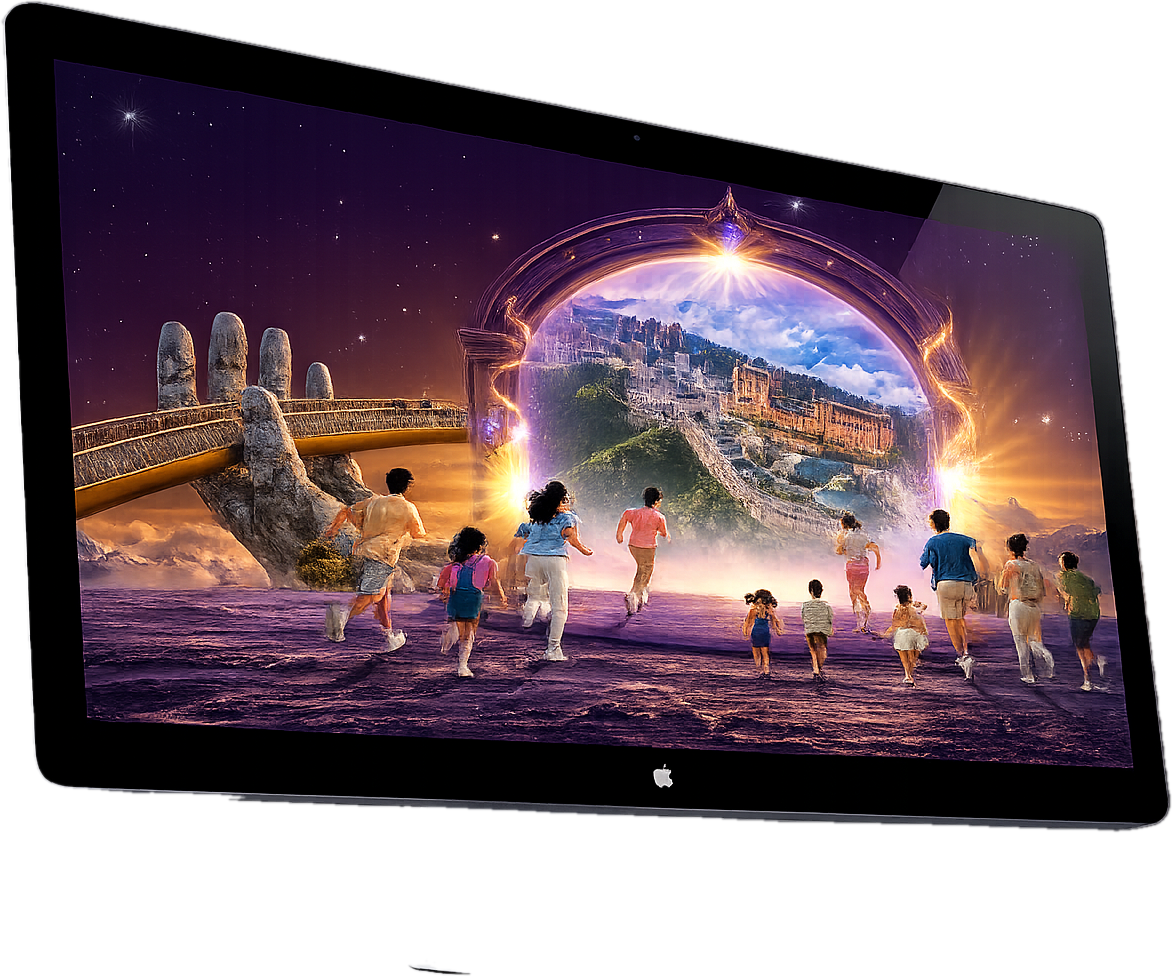
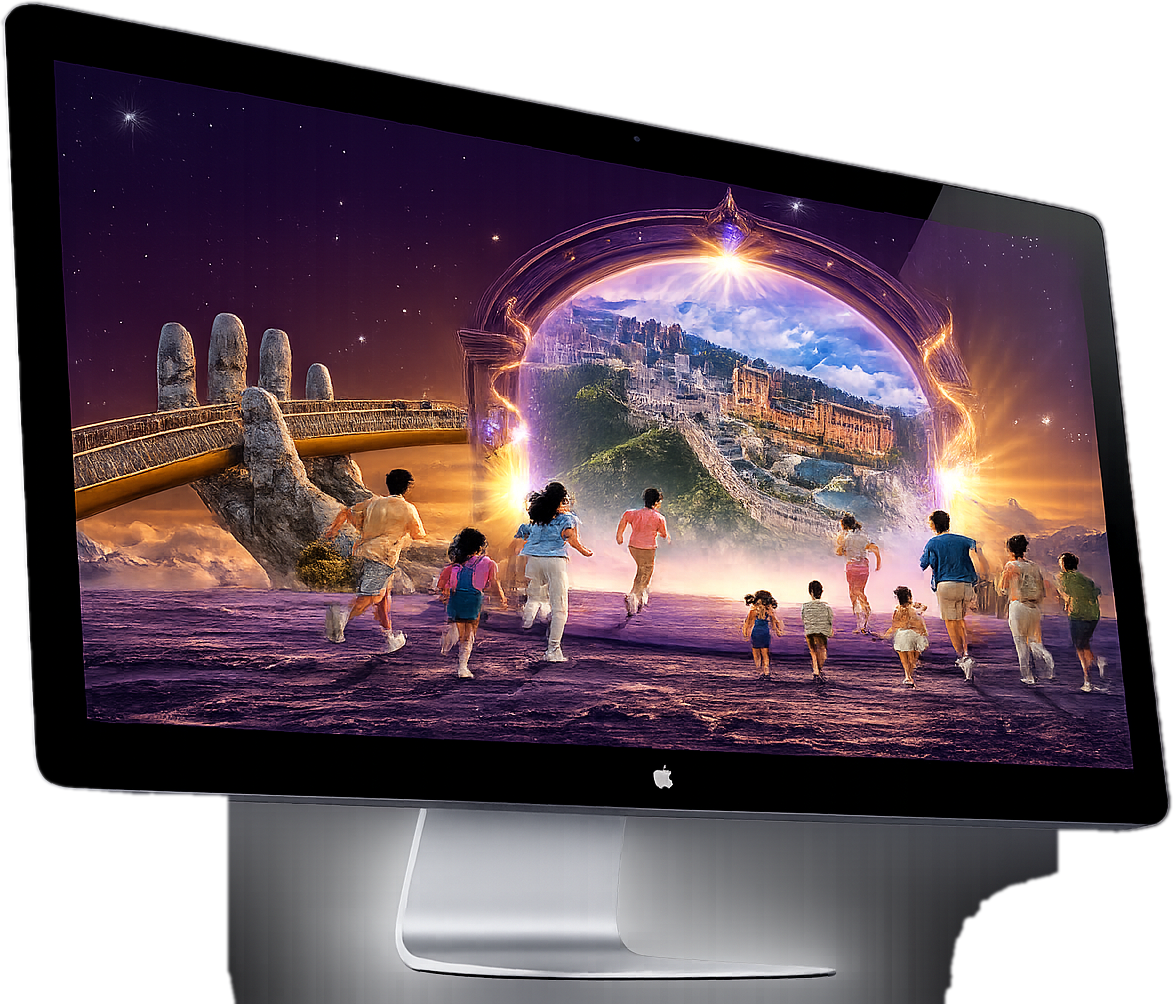
fix: монитор Ба На виден целиком, с подставкой
Прежняя маска срезала подставку: rembg принимал её за фон. Маска теперь
собирается в два шага — силуэт корпуса от isnet с заполнением внутренних
дыр (иначе тёмная часть экрана выбеливалась), плюс подставка отдельным
локальным порогом строго ниже корпуса: яркость 45 из 255 при фоне рядом
19-38, зона x 24-78%, сглаживание Max(9)/Min(9). Кадр 1173x1004.

EXCEPTIONS в check.py пересчитан под новую пропорцию 1.168.

diff --git a/index.html b/index.html
@@ -1619,7 +1619,7 @@
       <!-- ?v=1 — версия пути. Без неё браузер держал в кэше прежний
            bana-gate.webp с непрозрачным фоном и не показывал вырезку при
            обычном обновлении. При замене файла версию поднимать. -->
-      <img src="images/bana-display.webp?v=2" alt="Ба На Хиллс — Золотой мост и врата на экране" decoding="async" loading="lazy" />
+      <img src="images/bana-display.webp?v=3" alt="Ба На Хиллс — Золотой мост и врата на экране" decoding="async" loading="lazy" />
     </div>
   </section>
 

diff --git a/tools/check.py b/tools/check.py
@@ -39,15 +39,15 @@ APPLE = {
 # Все плитки теперь устроены одинаково: фотография занимает низ целиком
 # (object-fit: cover), поэтому исключение по «Данангу» больше не нужно.
 EXCEPTIONS = {
-    # «Ба На Хиллс»: кадр — вырезанный монитор, пропорция 1.201 (1172x976).
+    # «Ба На Хиллс»: кадр — вырезанный монитор, пропорция 1.168 (1173x1004).
     # Высота блока штатная, под фото остаётся ~410px при ширине 1440, и
-    # contain ограничен высотой: ширина монитора = 410 * 1.201 = 492px, это
-    # 34% секции. Довести до эталонных 62-74% можно только подняв высоту
+    # contain ограничен высотой: ширина монитора = 410 * 1.168 = 479px, это
+    # 33% секции. Довести до эталонных 62-74% можно только подняв высоту
     # блока (нарушает правило «секция умещается в экран, следующая
     # проглядывает») или обрезав монитор снизу по cover — при пропорции
     # бокса 3.5 против 1.2 от него осталась бы верхняя треть.
-    # Замеры: 34% на 1440, 40% на 1920, 42% на 2880 — цель 38 с допуском 12%.
-    ("Ба На Хиллс", "media_w_pct"): ((38, 0.12), "вырезка 1.201 ограничена высотой полосы"),
+    # Замеры: 33% на 1440, 39% на 1920, 41% на 2880 — цель 37 с допуском 12%.
+    ("Ба На Хиллс", "media_w_pct"): ((37, 0.12), "вырезка 1.168 ограничена высотой полосы"),
 }
 
 VIEWPORTS = [(1440, 900), (1920, 1080), (2880, 1700)]
